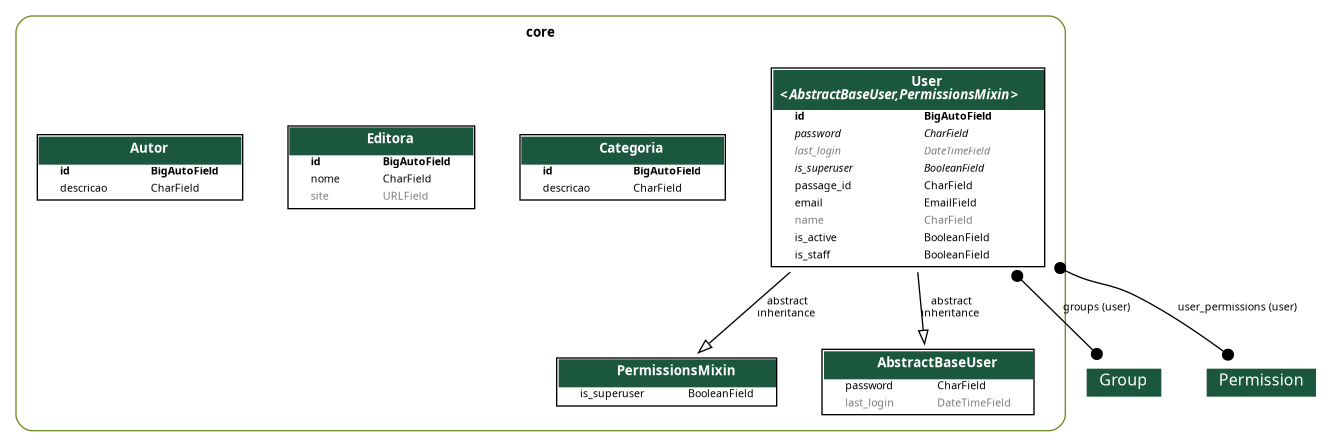
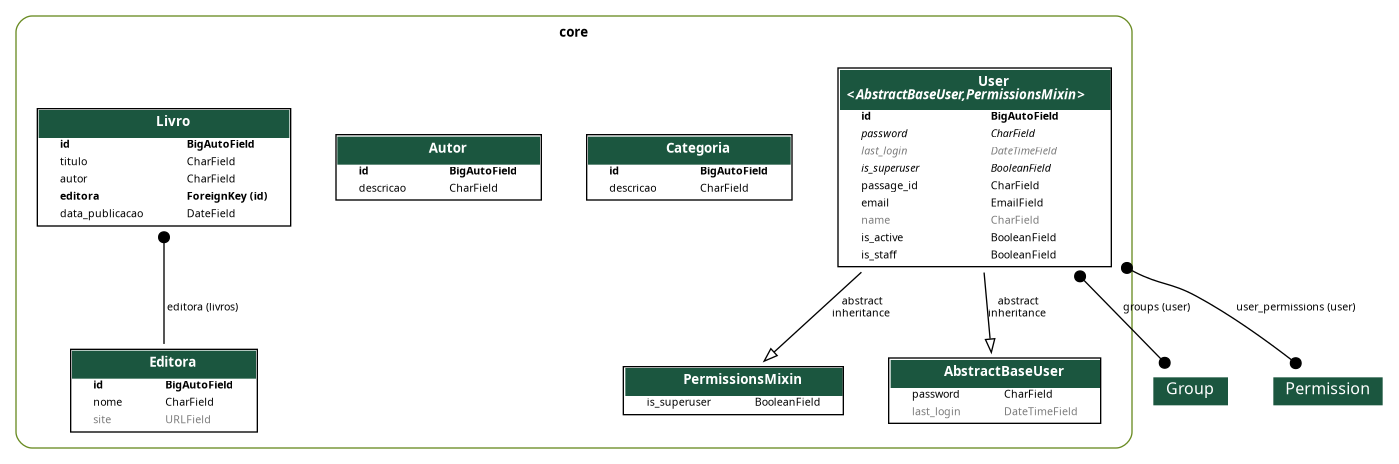
feat: criação da entidade para Livro

diff --git a/core/migrations/0009_livro.py b/core/migrations/0009_livro.py
@@ -1,0 +1,24 @@
+# Generated by Django 5.1.7 on 2026-03-09 17:19
+
+import django.db.models.deletion
+from django.db import migrations, models
+
+
+class Migration(migrations.Migration):
+
+    dependencies = [
+        ('core', '0008_autor'),
+    ]
+
+    operations = [
+        migrations.CreateModel(
+            name='Livro',
+            fields=[
+                ('id', models.BigAutoField(auto_created=True, primary_key=True, serialize=False, verbose_name='ID')),
+                ('titulo', models.CharField(max_length=200)),
+                ('autor', models.CharField(max_length=100)),
+                ('data_publicacao', models.DateField()),
+                ('editora', models.ForeignKey(on_delete=django.db.models.deletion.CASCADE, related_name='livros', to='core.editora')),
+            ],
+        ),
+    ]

diff --git a/app/urls.py b/app/urls.py
@@ -7,13 +7,14 @@ from drf_spectacular.views import (
 )
 from rest_framework.routers import DefaultRouter
 
-from core.views import AutorViewSet, CategoriaViewSet, EditoraViewSet, UserViewSet
+from core.views import AutorViewSet, CategoriaViewSet, EditoraViewSet, LivroViewSet, UserViewSet
 
 router = DefaultRouter()
 
 router.register(r'autores', AutorViewSet, basename='autores')
 router.register(r'categorias', CategoriaViewSet, basename='categorias')
 router.register(r'editoras', EditoraViewSet, basename='editoras')
+router.register(r'livros', LivroViewSet, basename='livros')
 router.register(r'usuarios', UserViewSet, basename='usuarios')
 
 

diff --git a/core/models/livro.py b/core/models/livro.py
@@ -1,0 +1,11 @@
+from django.db import models
+
+
+class Livro(models.Model):
+    titulo = models.CharField(max_length=255)
+    isbn = models.CharField(max_length=32, null=True, blank=True)
+    quantidade = models.IntegerField(default=0,  null=True, blank=True)
+    preco = models.DecimalField(max_digits=7, decimal_places=2, default=0)
+
+    def __str__(self):
+        return f'({self.id}) {self.titulo} ({self.quantidade})'

diff --git a/core/views/livro.py b/core/views/livro.py
@@ -1,0 +1,9 @@
+from rest_framework.viewsets import ModelViewSet
+
+from core.models import Livro
+from core.serializers import LivroSerializer
+
+
+class LivroViewSet(ModelViewSet):
+    queryset = Livro.objects.all()
+    serializer_class = LivroSerializer

diff --git a/core/serializers/livro.py b/core/serializers/livro.py
@@ -1,0 +1,9 @@
+from attr import fields
+from core.models.livro import Livro
+from rest_framework.serializers import ModelSerializer
+
+
+class LivroSerializer(ModelSerializer):
+    class Meta:
+        model = Livro
+        fields = '__all__'

diff --git a/core/admin.py b/core/admin.py
@@ -55,3 +55,4 @@ admin.site.register(models.User, UserAdmin)
 admin.site.register(models.Categoria)
 admin.site.register(models.Editora)
 admin.site.register(models.Autor)
+admin.site.register(models.Livro)

diff --git a/core/serializers/__init__.py b/core/serializers/__init__.py
@@ -2,3 +2,4 @@ from .user import UserSerializer
 from .categoria import CategoriaSerializer
 from .editora import EditoraSerializer
 from .autor import AutorSerializer
+from .livro import LivroSerializer

diff --git a/core/views/__init__.py b/core/views/__init__.py
@@ -2,3 +2,4 @@ from .user import UserViewSet
 from .categoria import CategoriaViewSet
 from .editora import EditoraViewSet
 from .autor import AutorViewSet
+from .livro import LivroViewSet

diff --git a/core/models/__init__.py b/core/models/__init__.py
@@ -2,3 +2,4 @@ from .user import User
 from .categoria import Categoria
 from .editora import Editora
 from .autor import Autor
+from .livro import Livro

diff --git a/core/views/editora.py b/core/views/editora.py
@@ -1,4 +1,3 @@
-
 from rest_framework.viewsets import ModelViewSet
 
 from core.models import Editora
